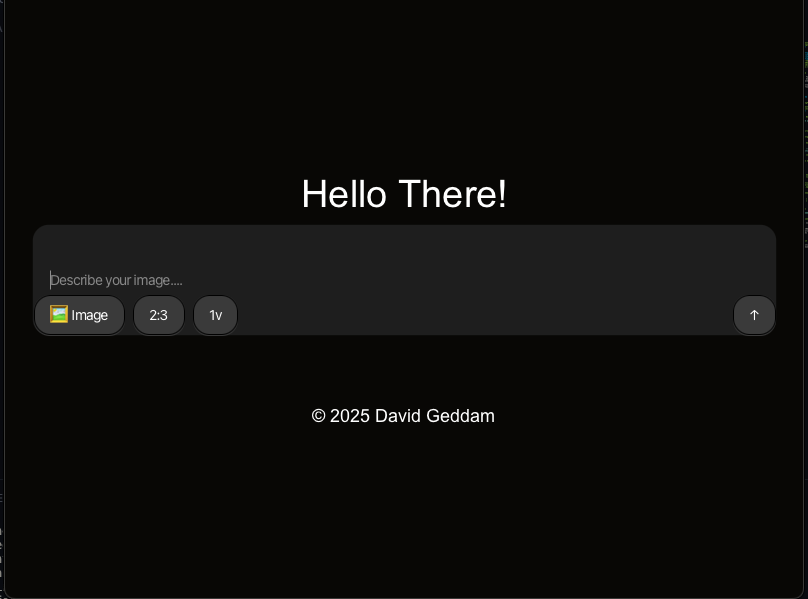
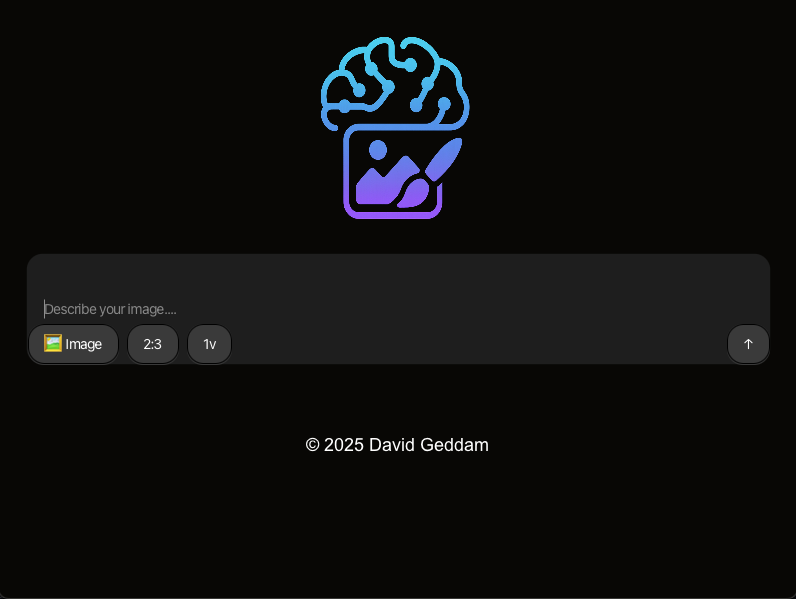
Update

diff --git a/app/src/main/resources/MainWindow.css b/app/src/main/resources/MainWindow.css
@@ -55,3 +55,16 @@
 .image:pressed{
     -fx-background-color: #5a5a5a;
 }
+.logo-banner{
+    -fx-background-image: url("logo.png");
+    -fx-background-size: 40% 40%;
+    -fx-background-repeat: no-repeat;
+    -fx-background-position: center;
+    -fx-padding: 10;
+}
+.logo-banner:hover{
+    -fx-scale-x: 1.05;
+    -fx-scale-y: 1.05;
+    -fx-cursor: hand;
+
+}
